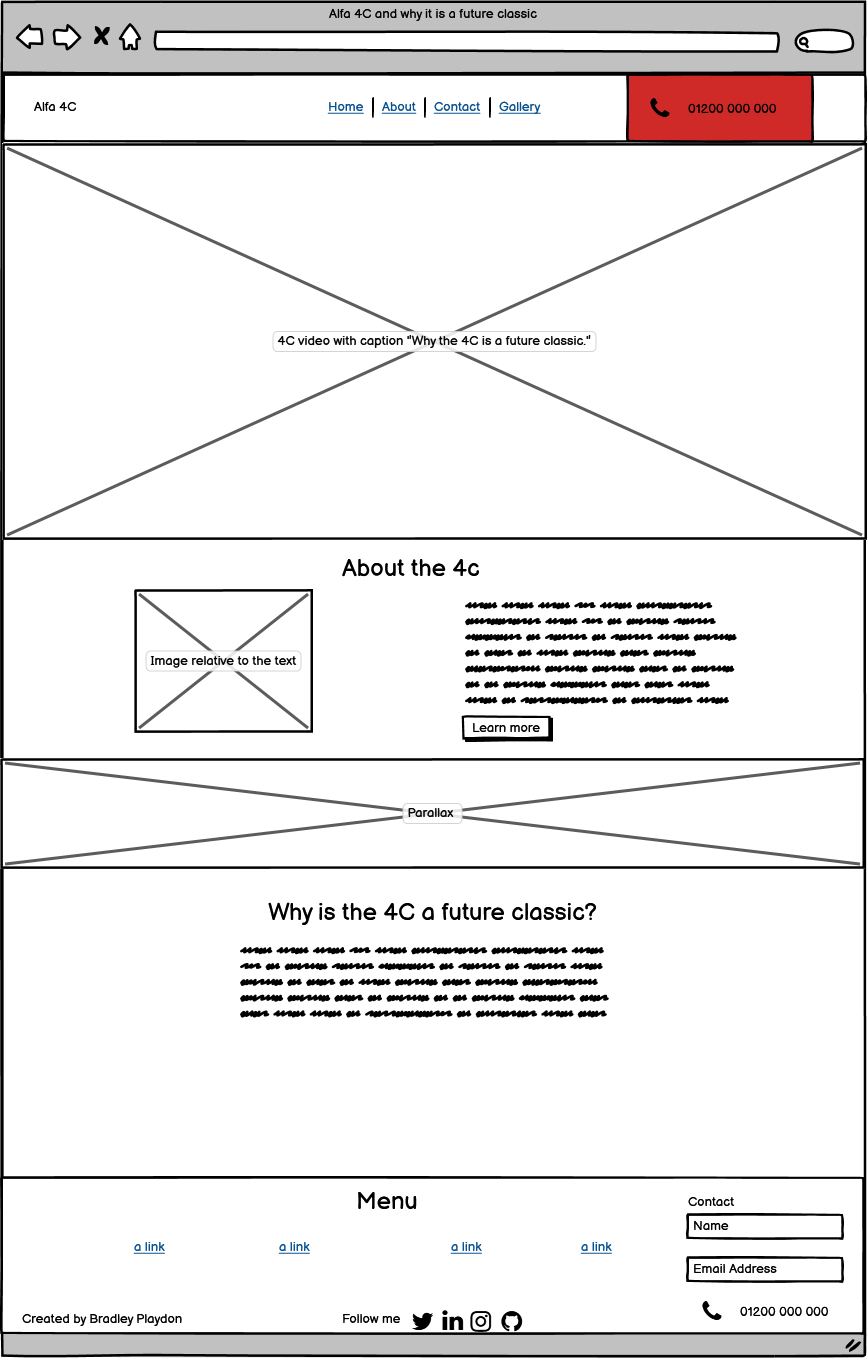
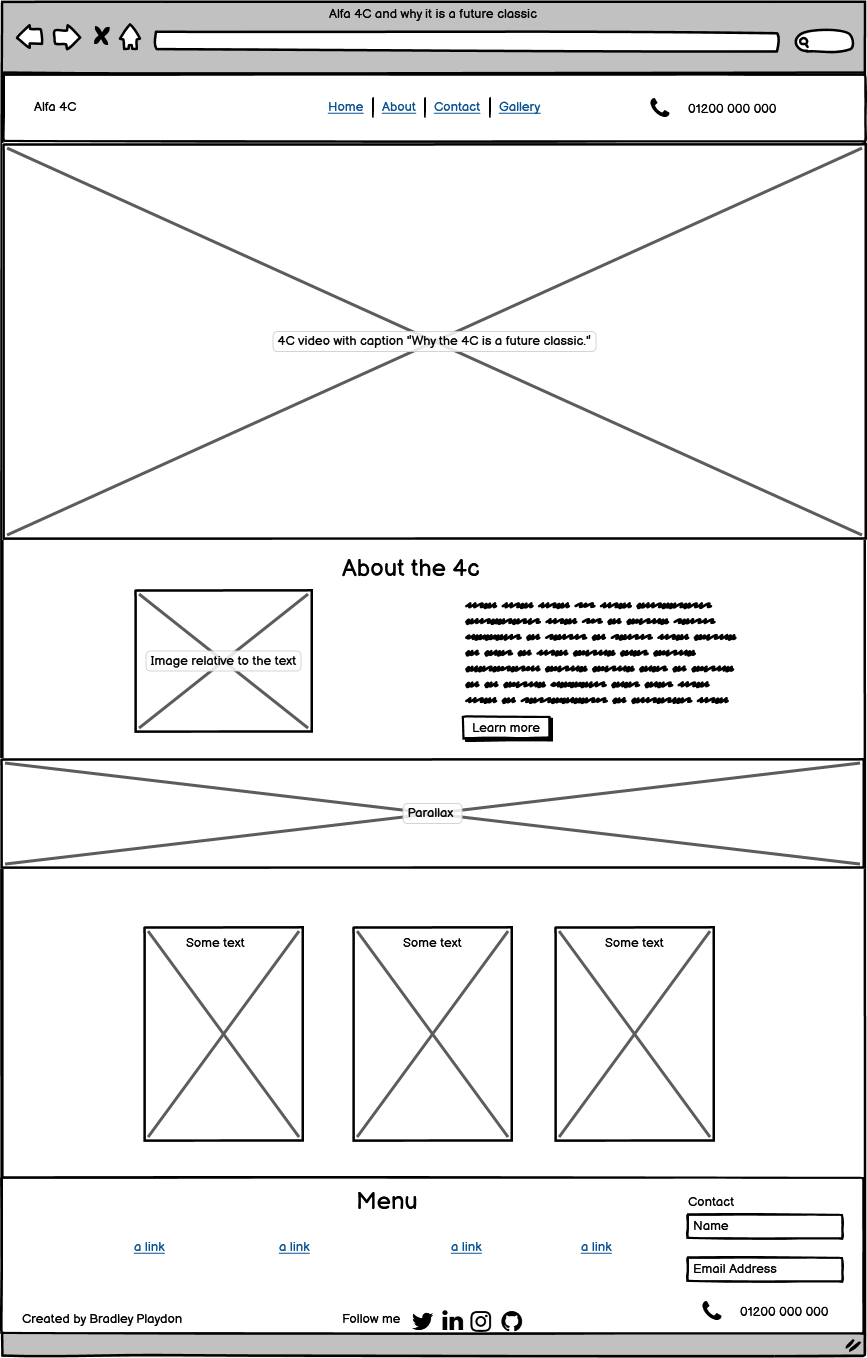
Home page section change and wireframes to match

diff --git a/index.html b/index.html
@@ -90,6 +90,21 @@
     <div id="parallax-home">
     </div>
   </section>
+  <section>
+    <div class="container">
+      <div class="row">
+      <div class="col-lg-4 col-sm-12 card">
+        <h2 class="text-center">Lightweight</h2>
+      </div>
+      <div class="col-lg-4 col-sm-12 card">
+        <h2 class="text-center">Elegant</h2>
+      </div>
+      <div class="col-lg-4 col-sm-12 card">
+        <h2 class="text-center">Exotic</h2>
+      </div>
+    </div>
+    </div>
+  </section>
   <footer></footer>
   <script src="https://cdnjs.cloudflare.com/ajax/libs/jquery/3.5.1/jquery.slim.min.js"></script>
   <script src="https://cdnjs.cloudflare.com/ajax/libs/popper.js/1.16.1/umd/popper.min.js"></script>
